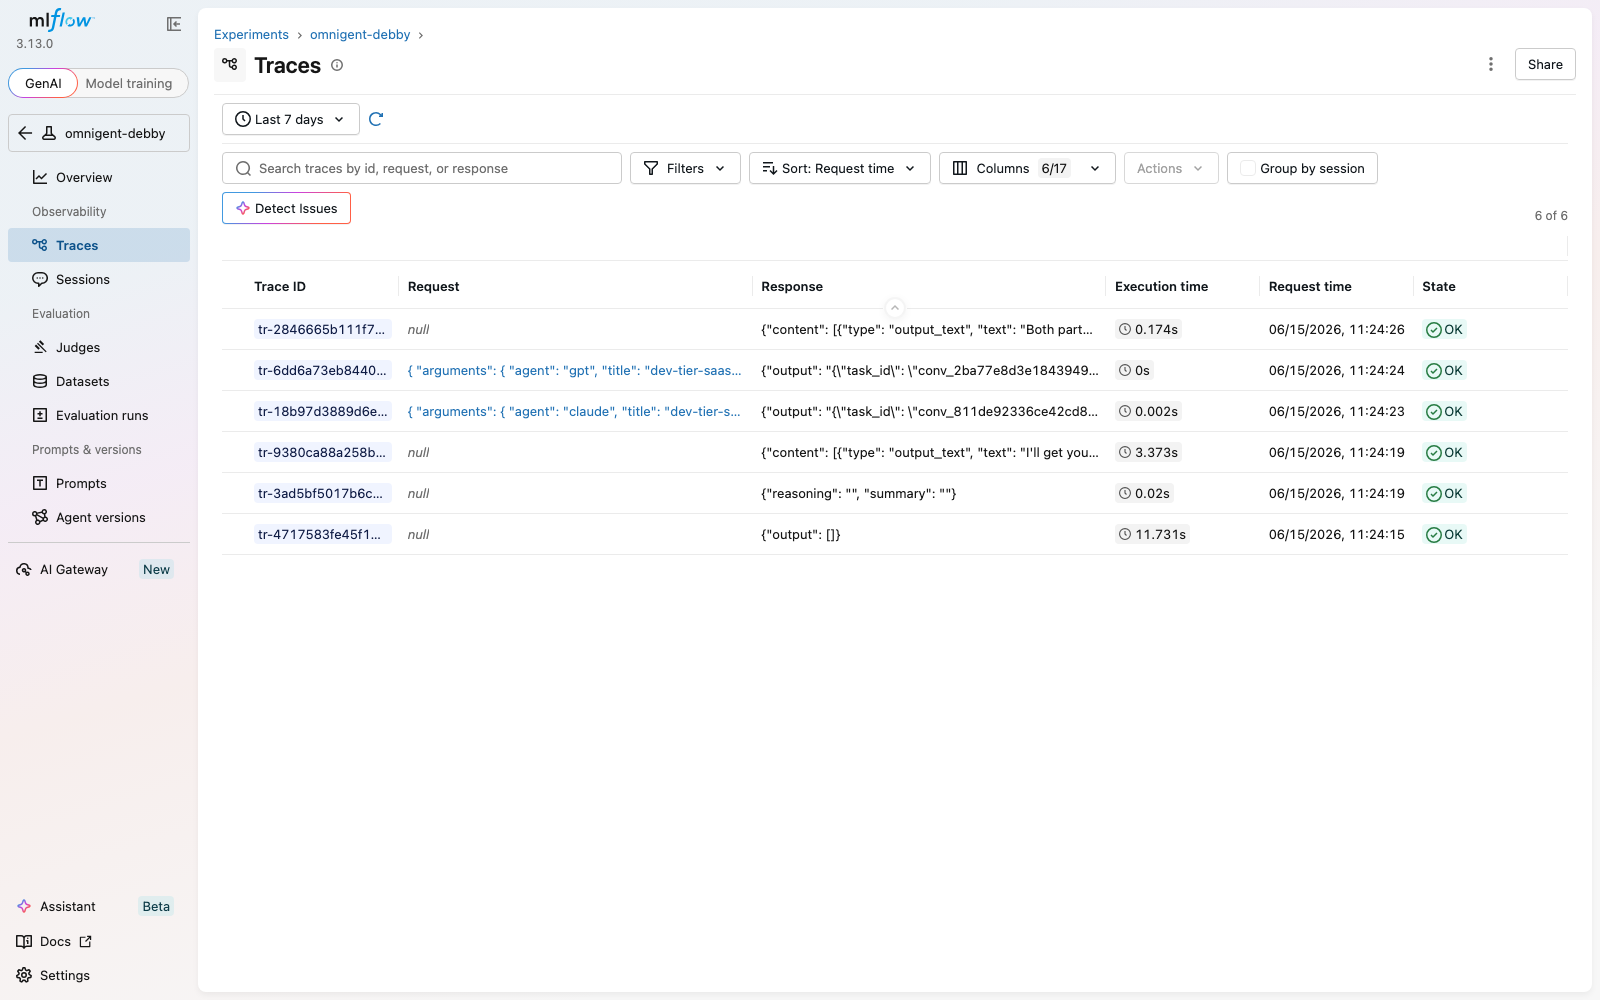
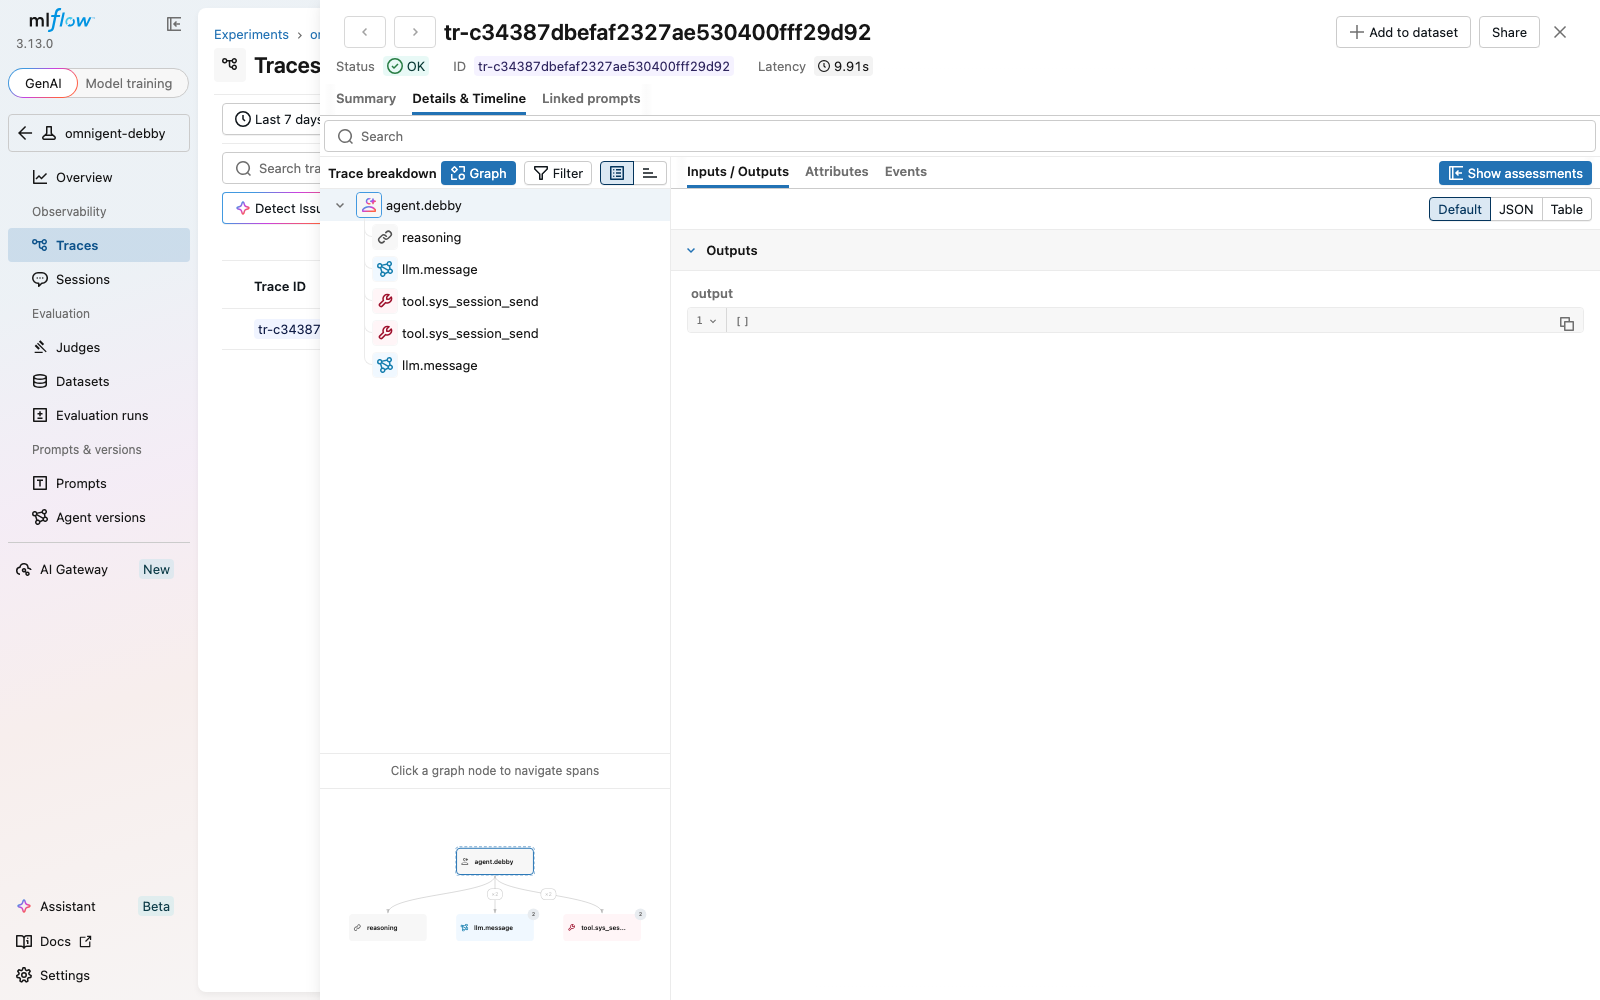
Add community files, CI badges, and updated screenshots
CONTRIBUTING, CODE_OF_CONDUCT, SECURITY, CHANGELOG, and pre-commit
config land so a maintainer looking at the repo for the first time
sees the same surface they would expect on any other OSS package.
CODE_OF_CONDUCT is Contributor Covenant 2.1 verbatim. CHANGELOG is
seeded under [Unreleased] with the span-hierarchy and adapter shape
items, ready to promote at tag time. SECURITY points at the private
security advisory channel for this repo, with out-of-scope issues
deferred to the underlying mlflow and omnigent surfaces.

tests/conftest.py extracts the autouse SQLite fixture so it covers
future test files without copy-paste. test_hooks.py imports it
transparently.

README adds CI, license, and Python badges, embeds the architecture
diagram and repo logo, and uses the post-hierarchy-fix screenshots.
The new trace detail shot shows the span tree with agent.debby at
the root and the six child spans (reasoning, two sys_session_send
calls, two llm.message spans) nested underneath, which is what the
hierarchy fix was supposed to prove.

Drops two stale screenshots (mlflow-experiments.png and
mlflow-experiment-traces.png) that no doc referenced.

diff --git a/src/omnigent_mlflow/judges.py b/src/omnigent_mlflow/judges.py
@@ -26,7 +26,6 @@ from __future__ import annotations
 
 from typing import Any
 
-
 _DEBATE_SCORER_PROMPT = """\
 You are auditing the output of a multi-agent debate.
 
@@ -72,9 +71,7 @@ def debate_synthesis_quality(trace: Any) -> list[Any]:
         from mlflow.entities import Feedback
         from mlflow.genai.judges import make_judge
     except ImportError as e:  # pragma: no cover
-        raise ImportError(
-            "mlflow.genai is required for judges; pip install 'mlflow[genai]'"
-        ) from e
+        raise ImportError("mlflow.genai is required for judges; pip install 'mlflow[genai]'") from e
 
     spans = list(trace.data.spans) if hasattr(trace, "data") else []
     a_out = _find_sub_agent_output(spans, "claude")

diff --git a/tests/test_hooks.py b/tests/test_hooks.py
@@ -10,21 +10,9 @@ from __future__ import annotations
 
 from types import SimpleNamespace
 
-import mlflow
-import pytest
-
 from omnigent_mlflow import OmnigentMlflowHooks
 
-
-@pytest.fixture(autouse=True)
-def local_mlflow(tmp_path, monkeypatch):
-    # MLflow 3.x removed the file-store tracking backend from the
-    # supported set; tests use SQLite (the recommended local backend).
-    db = tmp_path / "mlflow.db"
-    uri = f"sqlite:///{db}"
-    monkeypatch.setenv("MLFLOW_TRACKING_URI", uri)
-    mlflow.set_tracking_uri(uri)
-    return tmp_path
+# The local_mlflow fixture is autouse and lives in tests/conftest.py.
 
 
 def _response(rid: str, model: str = "debby"):

diff --git a/tests/conftest.py b/tests/conftest.py
@@ -1,0 +1,22 @@
+"""Shared test fixtures.
+
+The local_mlflow autouse fixture points MLflow at an in-memory
+SQLite database per test so the suite needs no network access and
+leaves no files behind. MLflow 3.x removed the file-store tracking
+backend from the supported set, so SQLite is the recommended local
+option.
+"""
+
+from __future__ import annotations
+
+import mlflow
+import pytest
+
+
+@pytest.fixture(autouse=True)
+def local_mlflow(tmp_path, monkeypatch):
+    db = tmp_path / "mlflow.db"
+    uri = f"sqlite:///{db}"
+    monkeypatch.setenv("MLFLOW_TRACKING_URI", uri)
+    mlflow.set_tracking_uri(uri)
+    return tmp_path

diff --git a/CODE_OF_CONDUCT.md b/CODE_OF_CONDUCT.md
@@ -1,0 +1,85 @@
+
+# Contributor Covenant Code of Conduct
+
+## Our Pledge
+
+We as members, contributors, and leaders pledge to make participation in our community a harassment-free experience for everyone, regardless of age, body size, visible or invisible disability, ethnicity, sex characteristics, gender identity and expression, level of experience, education, socio-economic status, nationality, personal appearance, race, caste, color, religion, or sexual identity and orientation.
+
+We pledge to act and interact in ways that contribute to an open, welcoming, diverse, inclusive, and healthy community.
+
+## Our Standards
+
+Examples of behavior that contributes to a positive environment for our community include:
+
+* Demonstrating empathy and kindness toward other people
+* Being respectful of differing opinions, viewpoints, and experiences
+* Giving and gracefully accepting constructive feedback
+* Accepting responsibility and apologizing to those affected by our mistakes, and learning from the experience
+* Focusing on what is best not just for us as individuals, but for the overall community
+
+Examples of unacceptable behavior include:
+
+* The use of sexualized language or imagery, and sexual attention or advances of any kind
+* Trolling, insulting or derogatory comments, and personal or political attacks
+* Public or private harassment
+* Publishing others' private information, such as a physical or email address, without their explicit permission
+* Other conduct which could reasonably be considered inappropriate in a professional setting
+
+## Enforcement Responsibilities
+
+Community leaders are responsible for clarifying and enforcing our standards of acceptable behavior and will take appropriate and fair corrective action in response to any behavior that they deem inappropriate, threatening, offensive, or harmful.
+
+Community leaders have the right and responsibility to remove, edit, or reject comments, commits, code, wiki edits, issues, and other contributions that are not aligned to this Code of Conduct, and will communicate reasons for moderation decisions when appropriate.
+
+## Scope
+
+This Code of Conduct applies within all community spaces, and also applies when an individual is officially representing the community in public spaces. Examples of representing our community include using an official e-mail address, posting via an official social media account, or acting as an appointed representative at an online or offline event.
+
+## Enforcement
+
+Instances of abusive, harassing, or otherwise unacceptable behavior may be reported to the community leaders responsible for enforcement at debusinha2009@gmail.com. All complaints will be reviewed and investigated promptly and fairly.
+
+All community leaders are obligated to respect the privacy and security of the reporter of any incident.
+
+## Enforcement Guidelines
+
+Community leaders will follow these Community Impact Guidelines in determining the consequences for any action they deem in violation of this Code of Conduct:
+
+### 1. Correction
+
+**Community Impact**: Use of inappropriate language or other behavior deemed unprofessional or unwelcome in the community.
+
+**Consequence**: A private, written warning from community leaders, providing clarity around the nature of the violation and an explanation of why the behavior was inappropriate. A public apology may be requested.
+
+### 2. Warning
+
+**Community Impact**: A violation through a single incident or series of actions.
+
+**Consequence**: A warning with consequences for continued behavior. No interaction with the people involved, including unsolicited interaction with those enforcing the Code of Conduct, for a specified period of time. This includes avoiding interactions in community spaces as well as external channels like social media. Violating these terms may lead to a temporary or permanent ban.
+
+### 3. Temporary Ban
+
+**Community Impact**: A serious violation of community standards, including sustained inappropriate behavior.
+
+**Consequence**: A temporary ban from any sort of interaction or public communication with the community for a specified period of time. No public or private interaction with the people involved, including unsolicited interaction with those enforcing the Code of Conduct, is allowed during this period. Violating these terms may lead to a permanent ban.
+
+### 4. Permanent Ban
+
+**Community Impact**: Demonstrating a pattern of violation of community standards, including sustained inappropriate behavior, harassment of an individual, or aggression toward or disparagement of classes of individuals.
+
+**Consequence**: A permanent ban from any sort of public interaction within the community.
+
+## Attribution
+
+This Code of Conduct is adapted from the [Contributor Covenant][homepage], version 2.1, available at [https://www.contributor-covenant.org/version/2/1/code_of_conduct.html][v2.1].
+
+Community Impact Guidelines were inspired by [Mozilla's code of conduct enforcement ladder][Mozilla CoC].
+
+For answers to common questions about this code of conduct, see the FAQ at [https://www.contributor-covenant.org/faq][FAQ]. Translations are available at [https://www.contributor-covenant.org/translations][translations].
+
+[homepage]: https://www.contributor-covenant.org
+[v2.1]: https://www.contributor-covenant.org/version/2/1/code_of_conduct.html
+[Mozilla CoC]: https://github.com/mozilla/diversity
+[FAQ]: https://www.contributor-covenant.org/faq
+[translations]: https://www.contributor-covenant.org/translations
+

diff --git a/CONTRIBUTING.md b/CONTRIBUTING.md
@@ -1,0 +1,73 @@
+# Contributing
+
+Thanks for the interest. PRs and issues are welcome.
+
+## Quick start
+
+```bash
+git clone https://github.com/debu-sinha/omnigent-mlflow-quickstart.git
+cd omnigent-mlflow-quickstart
+python -m venv .venv && source .venv/bin/activate
+pip install -e ".[dev,omnigent,genai]"
+pre-commit install
+```
+
+## Running checks
+
+```bash
+ruff check .
+ruff format --check .
+pytest -q
+```
+
+CI runs the same checks on Python 3.12 and 3.13. If they're clean
+locally they'll be clean on CI.
+
+## Filing an issue
+
+Use one of the templates under `.github/ISSUE_TEMPLATE/`. Bug reports
+should include the omnigent version, MLflow version, Python version,
+and a minimum repro. If you don't have a clean repro yet, file the
+issue anyway with what you've got.
+
+## Sending a PR
+
+- Branch from `main`. Keep the diff focused. One conceptual change
+  per PR.
+- Add tests when adding behavior. The fixture under `tests/conftest.py`
+  uses an in-memory SQLite tracking store so you don't need network
+  access for the suite.
+- Sign your commit (`git commit -s`) for the DCO.
+- Run `pre-commit run --all-files` before pushing so the bot doesn't
+  catch you on style.
+
+## Pre-merge checklist
+
+- [ ] Tests pass locally and on CI.
+- [ ] `ruff check` and `ruff format --check` are clean.
+- [ ] If behavior changed, the README or docstrings reflect it.
+- [ ] If a public API moved, the CHANGELOG has an `## [Unreleased]`
+      entry under the right heading.
+
+## Project layout
+
+```
+src/omnigent_mlflow/
+  hooks.py     # OmnigentMlflowHooks, the StreamHooks -> MLflow span adapter
+  judges.py    # Two illustrative judge.align-compatible scorers
+examples/
+  trace_debby.py    # End-to-end against the bundled debby agent
+  debate_judge.py   # Score the resulting trace
+tests/
+  test_hooks.py     # Unit tests for span lifecycle pairing
+docs/
+  diagrams/architecture.svg
+  logo.svg
+```
+
+## Releasing
+
+Pushing a tag matching `v*` triggers `.github/workflows/publish.yml`
+which builds and uploads to PyPI via OIDC trusted publishing.
+Maintainers do this after merging the relevant CHANGELOG version
+header.

diff --git a/README.md b/README.md
@@ -1,8 +1,18 @@
+<p align="center">
+  <img src="docs/logo.svg" alt="omnigent-mlflow" width="240" />
+</p>
+
 # omnigent-mlflow
+
+[![CI](https://github.com/debu-sinha/omnigent-mlflow-quickstart/actions/workflows/ci.yml/badge.svg)](https://github.com/debu-sinha/omnigent-mlflow-quickstart/actions/workflows/ci.yml)
+[![License: Apache 2.0](https://img.shields.io/badge/License-Apache_2.0-blue.svg)](LICENSE)
+[![Python 3.12+](https://img.shields.io/badge/python-3.12%2B-blue.svg)](#install)
 
 MLflow tracing for [omnigent](https://github.com/omnigent-ai/omnigent)
 sessions. Attach `OmnigentMlflowHooks` to a session; every `StreamHooks`
-callback becomes an MLflow span.
+callback becomes an MLflow span, all nested under one trace per turn.
+
+![Architecture diagram showing omnigent, the harnesses, the LLM providers, and the MLflow rail](docs/diagrams/architecture.svg)
 
 ```python
 import mlflow
@@ -79,14 +89,19 @@ python examples/trace_debby.py "design a pricing tier"
 mlflow ui --backend-store-uri sqlite:///mlflow.db
 ```
 
-A real run produces six spans for a single Debby turn: the
-orchestrator's first response, two `sys_session_send` tool calls
-dispatching to the Claude and GPT sub-agents, the reasoning span,
-the closing message, and a status span.
+A real Debby turn produces one MLflow trace with six nested spans:
+the `agent.debby` root, a `reasoning` span, two `tool.sys_session_send`
+calls dispatching to the Claude and GPT sub-agents, and two
+`llm.message` spans for the orchestrator's opening and closing
+messages. The Details + Timeline tab shows the tree:
 
-![MLflow trace list, six spans from a real debby session](docs/screenshots/mlflow-traces-list.png)
+![MLflow trace detail with the agent.debby span tree expanded](docs/screenshots/mlflow-trace-detail.png)
 
-The omnigent server it ran against:
+Same trace from the list view:
+
+![MLflow trace list showing one trace for the full turn](docs/screenshots/mlflow-traces-list.png)
+
+And the omnigent server it ran against:
 
 ![omnigent server OpenAPI page](docs/screenshots/omnigent-server-openapi.png)
 

diff --git a/CHANGELOG.md b/CHANGELOG.md
@@ -1,0 +1,38 @@
+# Changelog
+
+Format follows [Keep a Changelog](https://keepachangelog.com/en/1.1.0/).
+Versioning follows [SemVer](https://semver.org/spec/v2.0.0.html) once
+the project leaves alpha. While in alpha, breaking changes can land on
+`main` and they're called out here under `### Changed (breaking)`.
+
+## [Unreleased]
+
+### Added
+- `OmnigentMlflowHooks` adapter mapping every `StreamHooks` callback
+  to an MLflow span (AGENT / TOOL / LLM / CHAIN), nested under one
+  trace per agent turn via a response stack and `parent_span=` wiring.
+- `omnigent_mlflow.judges` with two illustrative scorers:
+  `debate_synthesis_quality` (LLM-as-judge for the Debby debate
+  pattern) and `tool_call_efficiency` (code-only duplicate-call
+  detection).
+- `examples/trace_debby.py` end-to-end against the bundled debby
+  agent; bundles the agent directory, PATCHes a runner onto the new
+  session, sends a turn, captures spans.
+- `examples/debate_judge.py` runs the bundled scorers against a
+  produced trace.
+- Architecture diagram and repo logo under `docs/`.
+- Five unit tests covering the response stack, parent-child wiring,
+  parallel sub-agent handling, PII redaction flags, and unknown-end
+  events.
+
+### Fixed
+- Span hierarchy: spans now nest under one trace per agent turn,
+  not one trace per span. Open response stack tracks the current
+  parent on every `_on_*_start` callback.
+
+### Notes
+- This release line tracks omnigent v0.1.x. It depends on omnigent
+  PRs [#43](https://github.com/omnigent-ai/omnigent/pull/43) (sessions-
+  first hooks) and [#149](https://github.com/omnigent-ai/omnigent/pull/149)
+  (server startup fix). Without those merged, the example here won't
+  reach the SSE stream cleanly.

diff --git a/SECURITY.md b/SECURITY.md
@@ -1,0 +1,29 @@
+# Security Policy
+
+## Supported versions
+
+Alpha. The `main` branch is the supported line; older snapshots aren't
+maintained.
+
+## Reporting a vulnerability
+
+Please don't open a public issue. Send a private security advisory
+through GitHub:
+<https://github.com/debu-sinha/omnigent-mlflow-quickstart/security/advisories/new>
+
+Reports get acknowledged within 72 hours. Fixes for confirmed issues
+land on `main` and a tagged release within two weeks unless the issue
+is non-trivial, in which case I'll update the reporter on the
+timeline.
+
+## Out of scope
+
+This adapter is a thin layer over MLflow's tracing primitives and
+omnigent's `StreamHooks` surface. Vulnerabilities in those underlying
+libraries should go to their projects directly:
+
+- MLflow: <https://github.com/mlflow/mlflow/security/policy>
+- omnigent: <https://github.com/omnigent-ai/omnigent/security/policy>
+
+Don't include live API keys, customer data, or workspace URLs in any
+report.
